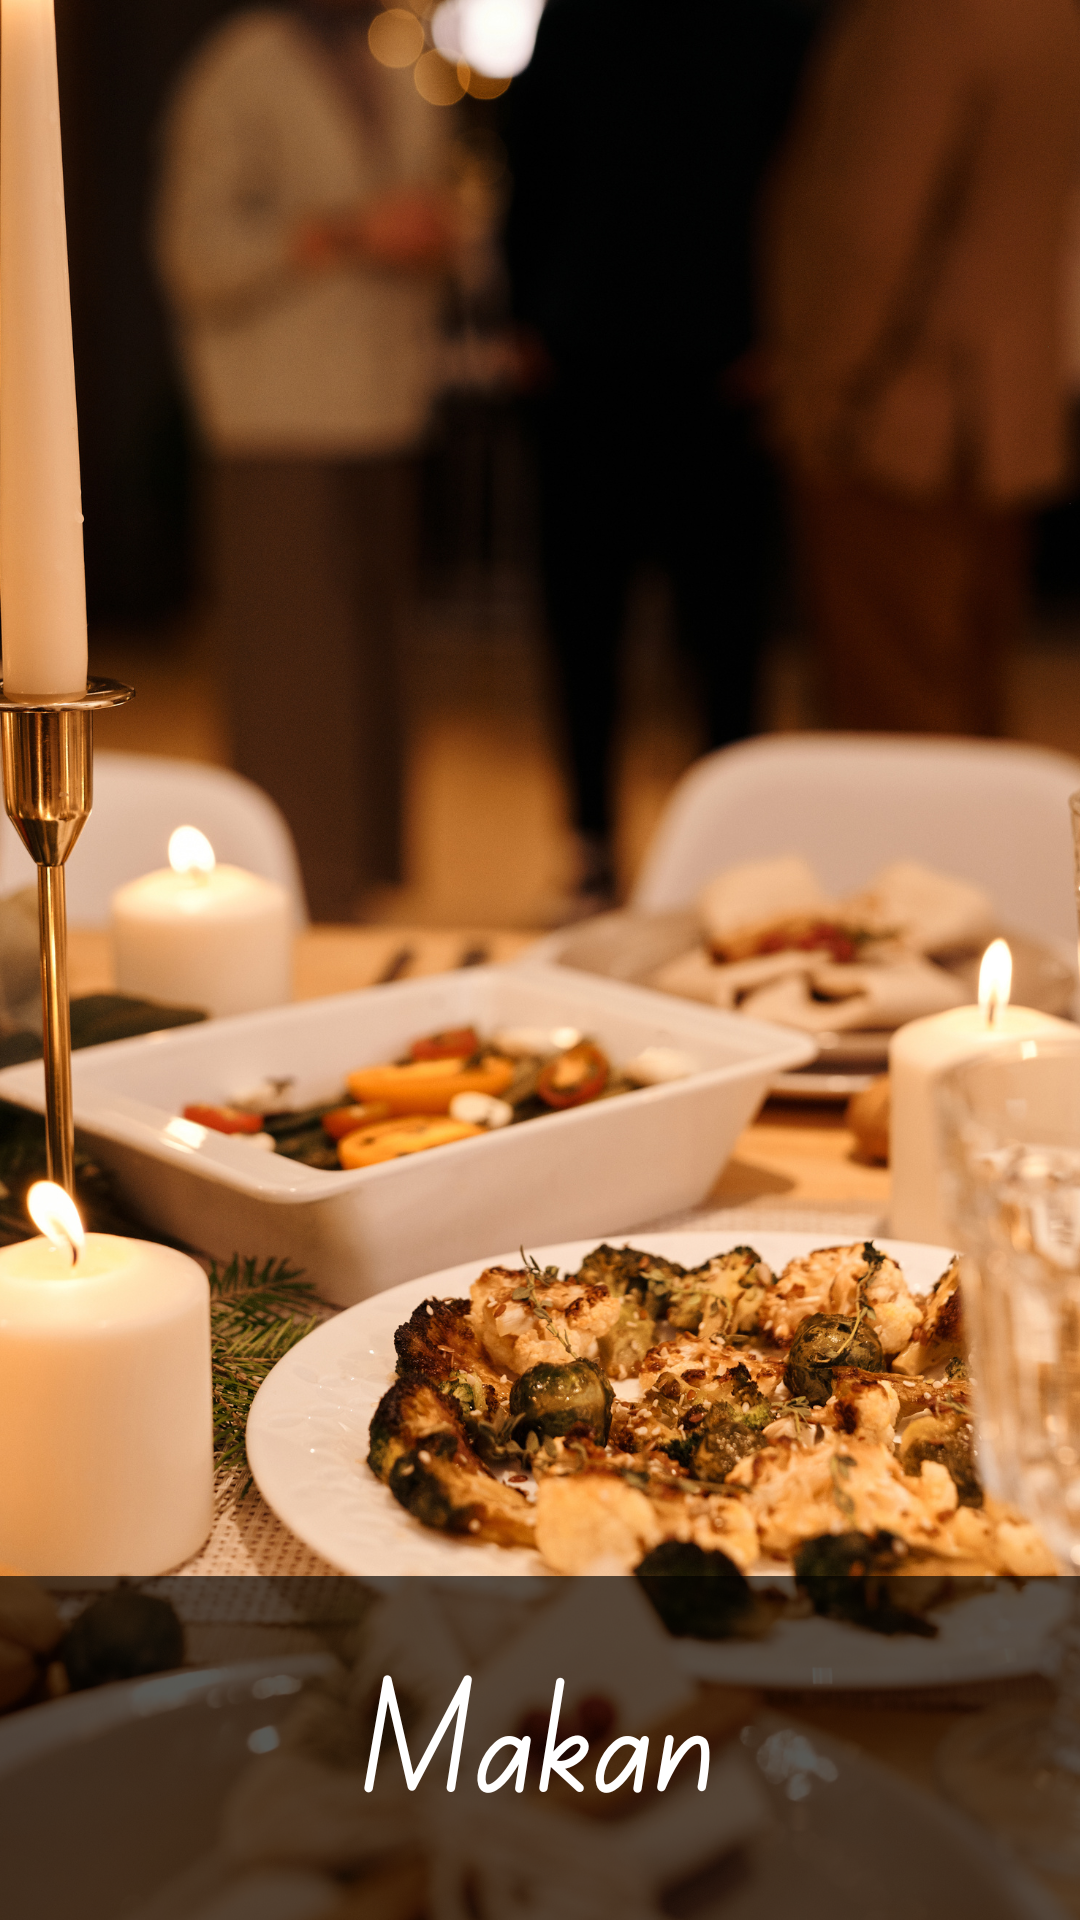
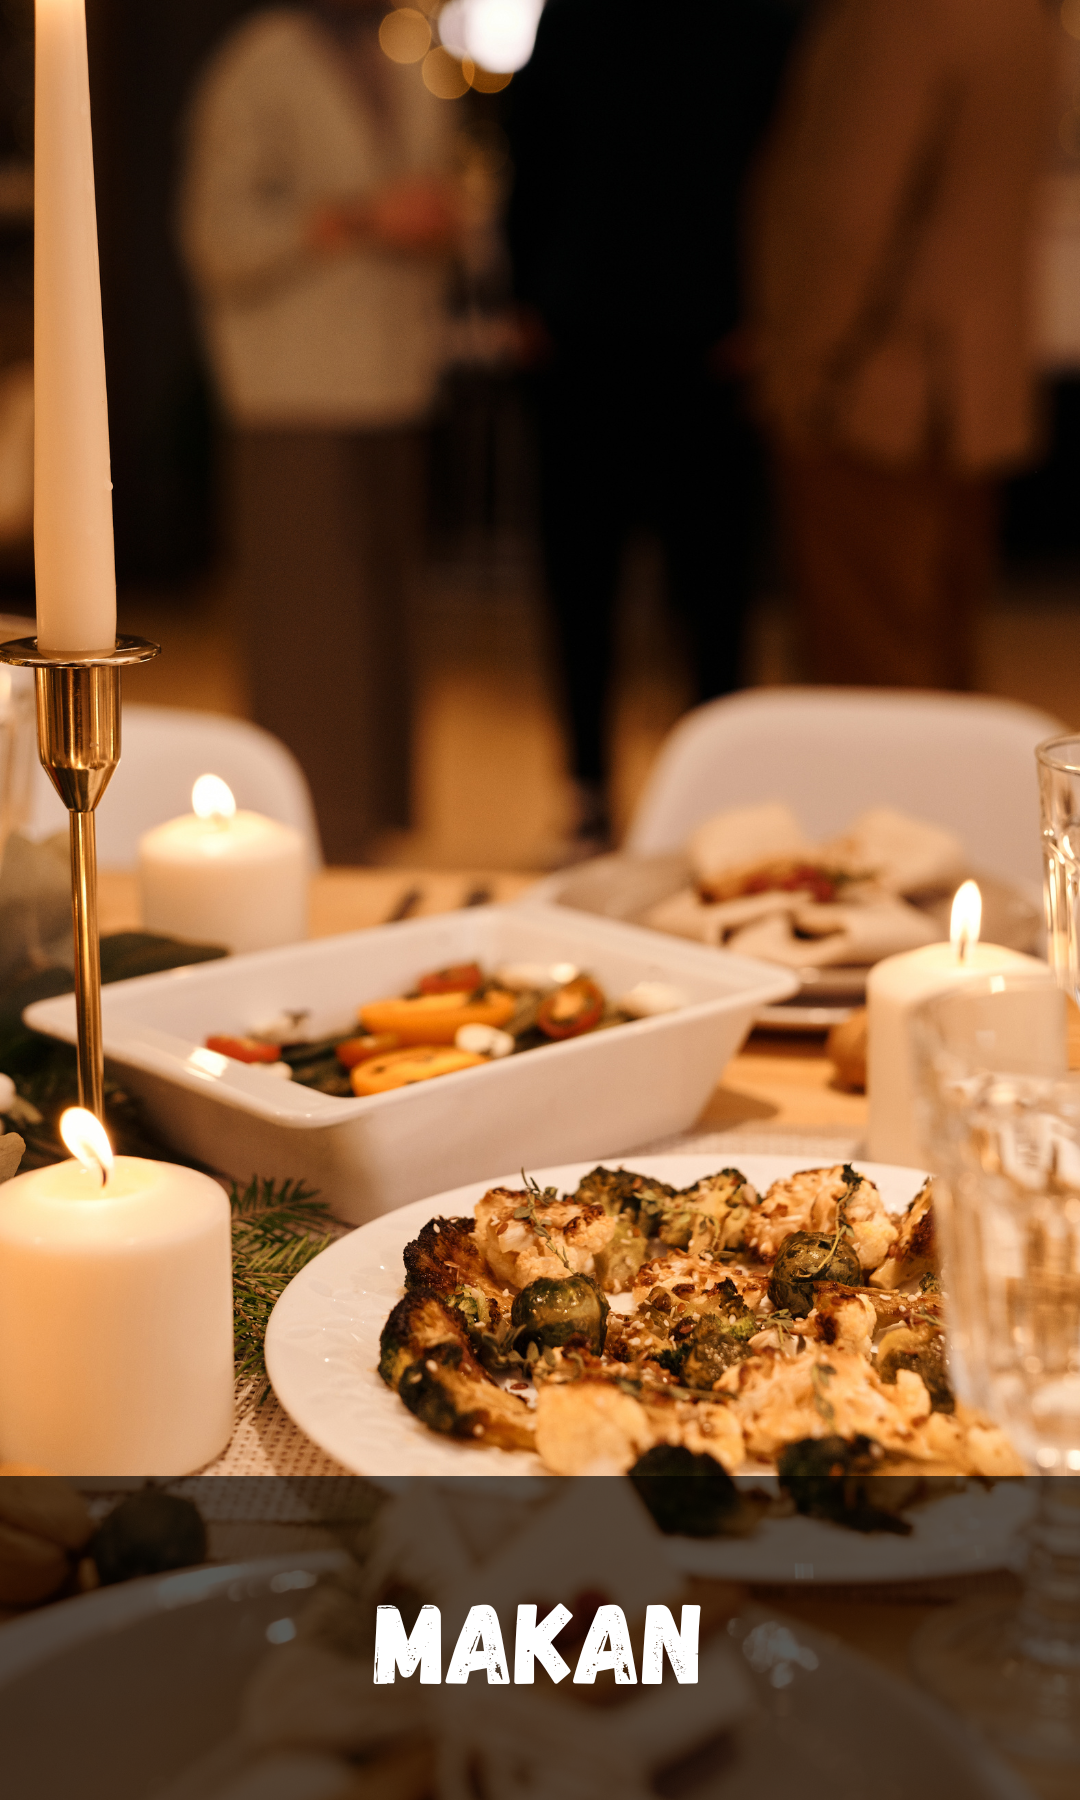
first

diff --git a/card.html b/card.html
@@ -81,7 +81,7 @@
 
         .card img {
             width: 100%;
-            height: auto;
+            height: 100%;
             border-radius: 10px;
             image-rendering: crisp-edges;
             object-fit: cover;
